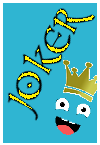
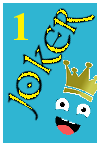
added numbers to joker card

Changed region(s): [[0.12, 0.0828, 0.27, 0.2759]]

diff --git a/src/main/java/skipbo/client/CardIcons.java b/src/main/java/skipbo/client/CardIcons.java
@@ -52,9 +52,9 @@ class CardIcons {
         }
 
         skipbo[12] = new ImageIcon(Objects.requireNonNull(getClass().getClassLoader().getResource("skipbo.png")));
-        image = skipbo[0].getImage().getScaledInstance(widthMedium, heightMedium, Image.SCALE_SMOOTH);
+        image = skipbo[12].getImage().getScaledInstance(widthMedium, heightMedium, Image.SCALE_SMOOTH);
         skipbo[13] = new ImageIcon(image);
-        image = skipbo[0].getImage().getScaledInstance(widthSmall, heightSmall, Image.SCALE_SMOOTH);
+        image = skipbo[12].getImage().getScaledInstance(widthSmall, heightSmall, Image.SCALE_SMOOTH);
         skipbo[14] = new ImageIcon(image);
 
         icons = new ImageIcon[][]{rL, rM, rS, gL, gM, gS, bL, bM, bS, skipbo};
